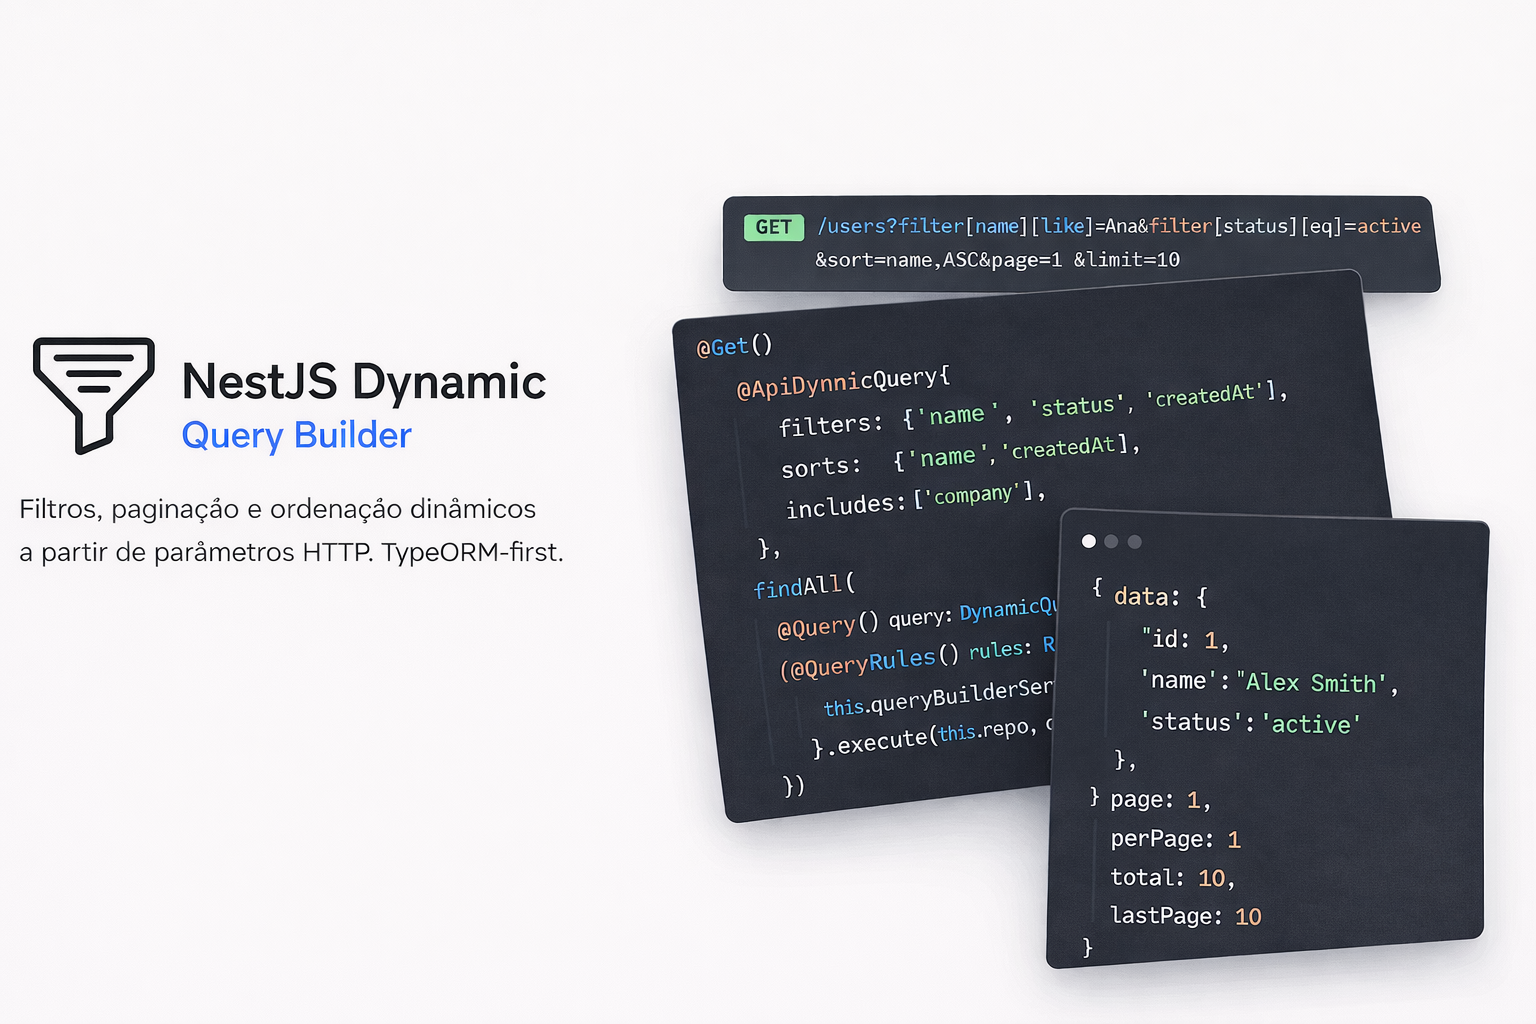
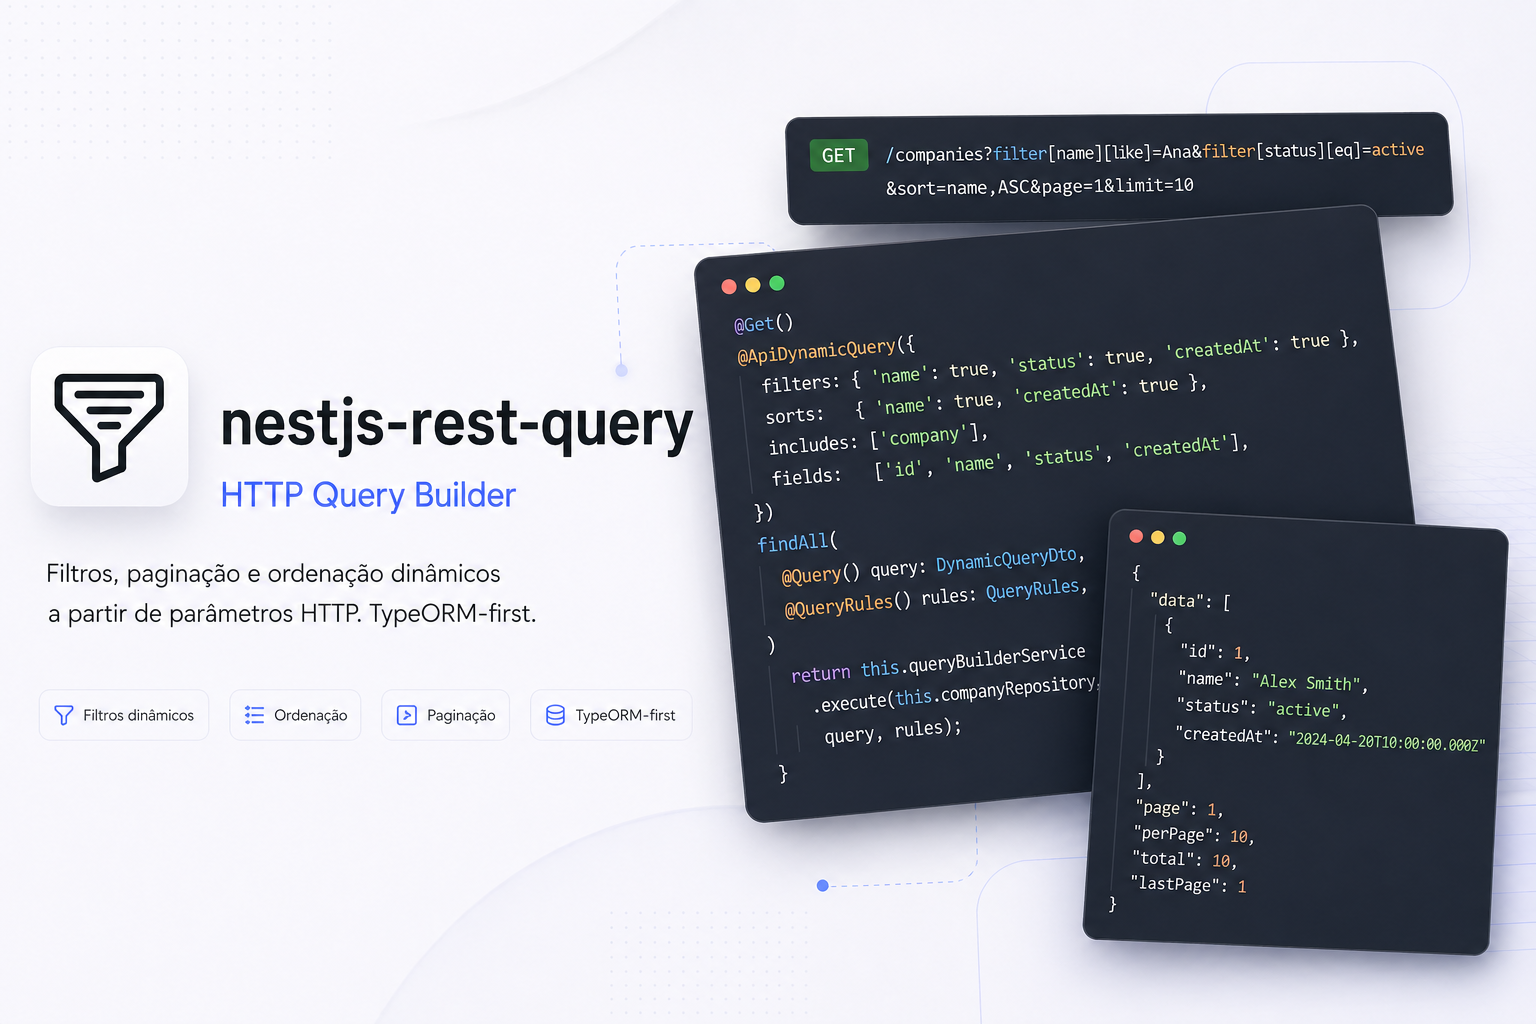
fix(docs): corrigir branding e link do repositorio

diff --git a/apps/docs/app/(home)/page.tsx b/apps/docs/app/(home)/page.tsx
@@ -36,7 +36,7 @@ const HomePage = () => (
       <div className="flex items-center gap-2.5">
         <Image
           src={resolveDocsAssetPath('/logomark.svg')}
-          alt="NestJS Dynamic Query Builder"
+          alt="nestjs-rest-query"
           width={40}
           height={40}
           className="dark:invert"
@@ -47,13 +47,13 @@ const HomePage = () => (
       </div>
 
       <h1 className="text-5xl font-bold tracking-tight leading-tight">
-        NestJS Dynamic{' '}
-        <span className="text-primary">Query Builder</span>
+        nestjs-rest-query
       </h1>
 
       <p className="text-lg text-muted-foreground max-w-xl">
         Filtros, paginação e ordenação dinâmicos a partir de parâmetros HTTP.
-        TypeORM-first. Whitelist de segurança por endpoint.
+        TypeORM-first. HTTP Query Builder com whitelist de segurança por
+        endpoint.
       </p>
 
       <div className="flex items-center gap-3">
@@ -76,7 +76,7 @@ const HomePage = () => (
     <div className="rounded-xl overflow-hidden border border-border shadow-md mb-16">
       <Image
         src={resolveDocsAssetPath('/patterns.png')}
-        alt="NestJS Dynamic Query Builder — visão geral"
+        alt="nestjs-rest-query — visão geral"
         width={1200}
         height={630}
         className="w-full h-auto dark:hidden"
@@ -84,7 +84,7 @@ const HomePage = () => (
       />
       <Image
         src={resolveDocsAssetPath('/patters-dark.png')}
-        alt="NestJS Dynamic Query Builder — visão geral"
+        alt="nestjs-rest-query — visão geral"
         width={1200}
         height={630}
         className="w-full h-auto hidden dark:block"

diff --git a/apps/docs/app/(home)/layout.tsx b/apps/docs/app/(home)/layout.tsx
@@ -1,7 +1,7 @@
 import { HomeLayout } from "fumadocs-ui/layouts/home";
 import type { ReactNode } from "react";
 import Image from "next/image";
-import { SiGitlab } from "@icons-pack/react-simple-icons";
+import { SiGithub } from "@icons-pack/react-simple-icons";
 import { resolveDocsAssetPath } from "../../lib/asset-path";
 
 type HomeRootLayoutProps = {
@@ -9,7 +9,7 @@ type HomeRootLayoutProps = {
 };
 
 const GITHUB_URL =
-  "https://github.com/nestjs-rest-query/nestjs-rest-query";
+  "https://github.com/naldomadeira/nestjs-rest-query";
 
 const HomeRootLayout = ({ children }: HomeRootLayoutProps) => (
   <HomeLayout
@@ -18,12 +18,12 @@ const HomeRootLayout = ({ children }: HomeRootLayoutProps) => (
         <div className="flex items-center gap-2">
           <Image
             src={resolveDocsAssetPath("/logomark.svg")}
-            alt="NestJS Dynamic Query Builder"
+            alt="nestjs-rest-query"
             width={22}
             height={22}
             className="dark:invert shrink-0"
           />
-          <span className="font-semibold text-sm leading-none">NestJS DQB</span>
+          <span className="font-semibold text-sm leading-none">nestjs-rest-query</span>
         </div>
       ),
       url: "/",
@@ -35,7 +35,7 @@ const HomeRootLayout = ({ children }: HomeRootLayoutProps) => (
         text: "GitHub",
         label: "GitHub",
         url: GITHUB_URL,
-        icon: <SiGitlab className="size-4" />,
+        icon: <SiGithub className="size-4" />,
         external: true,
       },
     ]}

diff --git a/apps/docs/app/(docs)/layout.tsx b/apps/docs/app/(docs)/layout.tsx
@@ -2,7 +2,7 @@ import { DocsLayout } from 'fumadocs-ui/layouts/docs';
 import { HomeLayout } from 'fumadocs-ui/layouts/home';
 import type { CSSProperties, ReactNode } from 'react';
 import Image from 'next/image';
-import { SiGitlab } from '@icons-pack/react-simple-icons';
+import { SiGithub } from '@icons-pack/react-simple-icons';
 import { resolveDocsAssetPath } from '../../lib/asset-path';
 import { source } from '../../lib/source';
 
@@ -11,19 +11,19 @@ type DocsRootLayoutProps = {
 };
 
 const GITHUB_URL =
-  'https://github.com/nestjs-rest-query/nestjs-rest-query';
+  'https://github.com/naldomadeira/nestjs-rest-query';
 
 const navTitle = (
   <div className="flex items-center gap-2">
     <Image
       src={resolveDocsAssetPath('/logomark.svg')}
-      alt="NestJS Dynamic Query Builder"
+      alt="nestjs-rest-query"
       width={22}
       height={22}
       className="dark:invert shrink-0"
     />
     <span className="font-semibold text-sm leading-none">
-      NestJS Dynamic Query Builder
+      nestjs-rest-query
     </span>
   </div>
 );
@@ -35,7 +35,7 @@ const navLinks = [
     text: 'GitHub',
     label: 'GitHub',
     url: GITHUB_URL,
-    icon: <SiGitlab className="size-4" />,
+    icon: <SiGithub className="size-4" />,
     external: true,
   },
 ];
